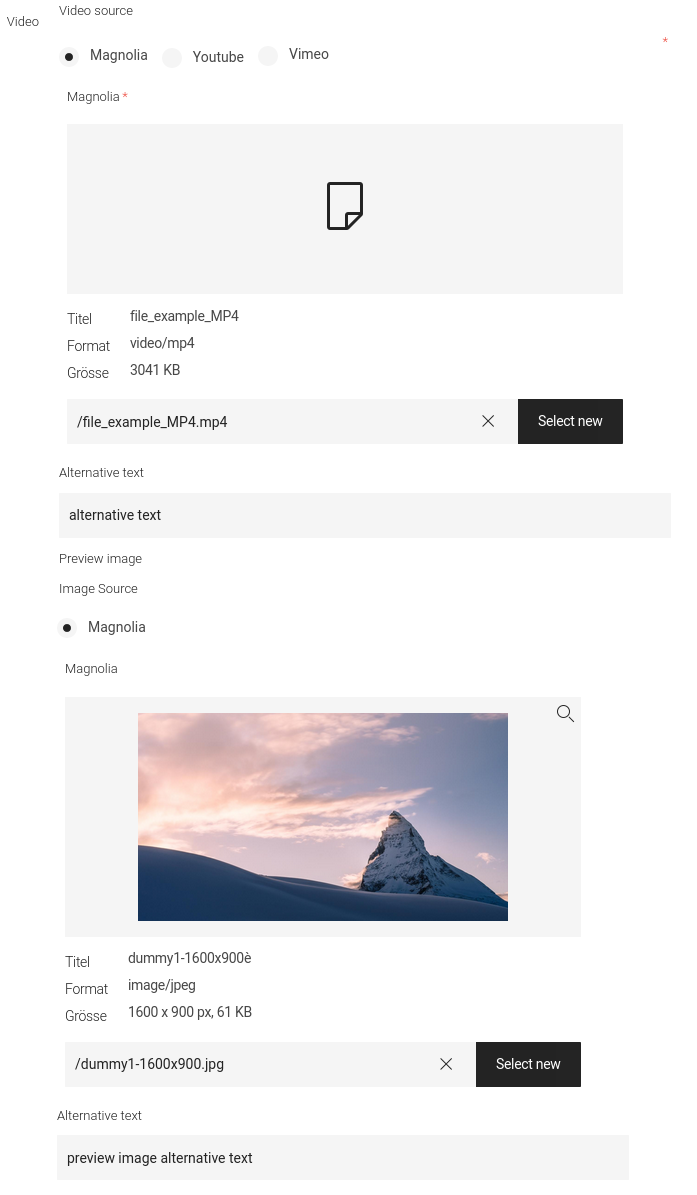
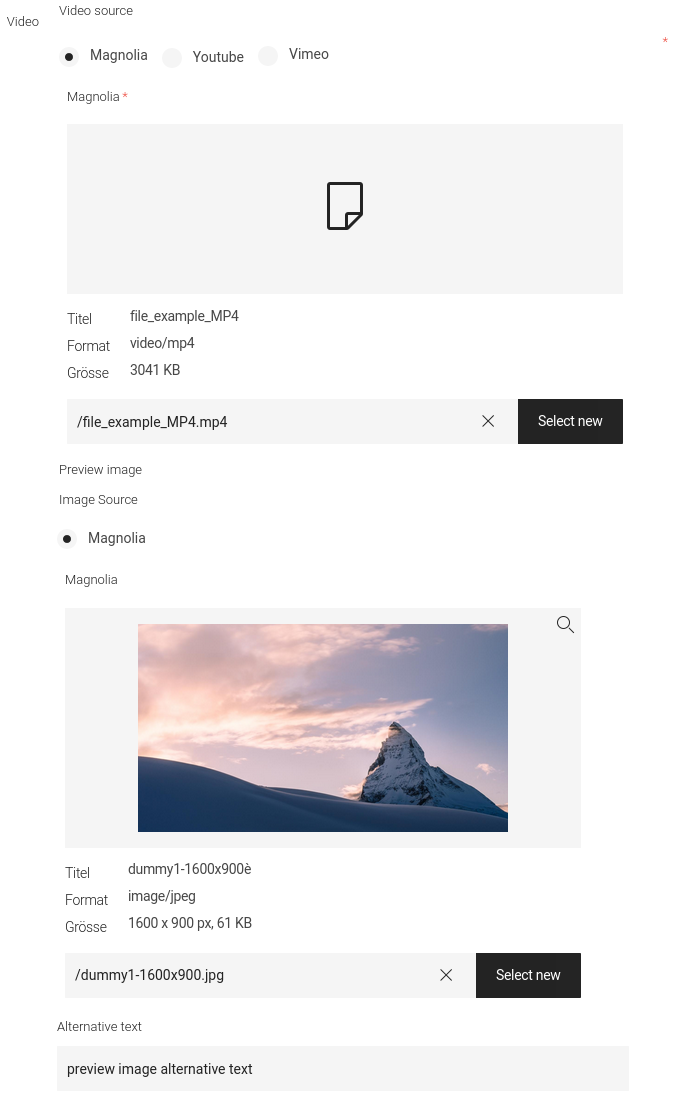
Remove alt text from videoSet

diff --git a/custom-definitions/src/main/java/com/merkle/oss/magnolia/definition/custom/videoset/model/VideoModel.java b/custom-definitions/src/main/java/com/merkle/oss/magnolia/definition/custom/videoset/model/VideoModel.java
@@ -18,19 +18,15 @@ public class VideoModel {
 	private final String src;
 	private final VideoType videoType;
 	@Nullable
-	private final String altText;
-	@Nullable
 	private final ImageReferenceModel previewImage;
 
 	public VideoModel(
 			final String src,
 			final VideoType videoType,
-			@Nullable final String altText,
 			@Nullable final ImageReferenceModel previewImage
 	) {
 		this.src = src;
 		this.videoType = videoType;
-		this.altText = altText;
 		this.previewImage = previewImage;
 	}
 
@@ -42,9 +38,6 @@ public class VideoModel {
 		return videoType;
 	}
 
-	public Optional<String> getAltText() {
-		return Optional.ofNullable(altText);
-	}
 
 	public Optional<ImageReferenceModel> getPreviewImage() {
 		return Optional.ofNullable(previewImage);
@@ -54,13 +47,13 @@ public class VideoModel {
 	public boolean equals(Object o) {
 		if (this == o) return true;
 		if (o == null || getClass() != o.getClass()) return false;
-		VideoModel video = (VideoModel) o;
-		return Objects.equals(src, video.src) && Objects.equals(videoType, video.videoType) && Objects.equals(altText, video.altText) && Objects.equals(previewImage, video.previewImage);
+		VideoModel that = (VideoModel) o;
+		return Objects.equals(src, that.src) && Objects.equals(videoType, that.videoType) && Objects.equals(previewImage, that.previewImage);
 	}
 
 	@Override
 	public int hashCode() {
-		return Objects.hash(src, videoType, altText, previewImage);
+		return Objects.hash(src, videoType, previewImage);
 	}
 
 	@Override
@@ -68,7 +61,6 @@ public class VideoModel {
 		return "Video{" +
 				"src='" + src + '\'' +
 				", videoType=" + videoType +
-				", altText='" + altText + '\'' +
 				", previewImage=" + previewImage +
 				'}';
 	}
@@ -104,7 +96,6 @@ public class VideoModel {
 					new VideoModel(
 							videoSource.src,
 							videoReference.getVideoType(),
-							videoReference.getAltText().orElse(videoSource.altText),
 							videoReference.getPreviewImage().orElse(null)
 					)
 			);
@@ -125,12 +116,9 @@ public class VideoModel {
 
 	public static class VideoSource {
 		private final String src;
-		@Nullable
-		private final String altText;
 
-		public VideoSource(final String src, @Nullable final String altText) {
+		public VideoSource(final String src) {
 			this.src = src;
-			this.altText = altText;
 		}
 	}
 }

diff --git a/custom-definitions/src/main/java/com/merkle/oss/magnolia/definition/custom/videoset/model/VideoReferenceModel.java b/custom-definitions/src/main/java/com/merkle/oss/magnolia/definition/custom/videoset/model/VideoReferenceModel.java
@@ -18,19 +18,15 @@ public class VideoReferenceModel {
 	private final String assetId;
 	private final VideoType videoType;
 	@Nullable
-	private final String altText;
-	@Nullable
 	private final ImageReferenceModel previewImage;
 
 	public VideoReferenceModel(
 			final String assetId,
 			final VideoType videoType,
-			@Nullable final String altText,
 			@Nullable final ImageReferenceModel previewImage
 	) {
 		this.assetId = assetId;
 		this.videoType = videoType;
-		this.altText = altText;
 		this.previewImage = previewImage;
 	}
 
@@ -42,10 +38,6 @@ public class VideoReferenceModel {
 		return videoType;
 	}
 
-	public Optional<String> getAltText() {
-		return Optional.ofNullable(altText);
-	}
-
 	public Optional<ImageReferenceModel> getPreviewImage() {
 		return Optional.ofNullable(previewImage);
 	}
@@ -55,12 +47,12 @@ public class VideoReferenceModel {
 		if (this == o) return true;
 		if (o == null || getClass() != o.getClass()) return false;
 		VideoReferenceModel that = (VideoReferenceModel) o;
-		return Objects.equals(assetId, that.assetId) && Objects.equals(videoType, that.videoType) && Objects.equals(altText, that.altText) && Objects.equals(previewImage, that.previewImage);
+		return Objects.equals(assetId, that.assetId) && Objects.equals(videoType, that.videoType) && Objects.equals(previewImage, that.previewImage);
 	}
 
 	@Override
 	public int hashCode() {
-		return Objects.hash(assetId, videoType, altText, previewImage);
+		return Objects.hash(assetId, videoType, previewImage);
 	}
 
 	@Override
@@ -68,7 +60,6 @@ public class VideoReferenceModel {
 		return "VideoReference{" +
 				"assetId='" + assetId + '\'' +
 				", videoType=" + videoType +
-				", altText='" + altText + '\'' +
 				", previewImage=" + previewImage +
 				'}';
 	}
@@ -99,7 +90,6 @@ public class VideoReferenceModel {
 							new VideoReferenceModel(
 									assetId,
 									videoType,
-									video.getProperty(propertyName + VideoSetDefinitionBuilder.ALT_TEXT_SUFFIX, dialogLocale, ValueConverter::getString).orElse(null),
 									imageReferenceFactory
 											.create(propertyName + VideoSetDefinitionBuilder.PREVIEW_IMAGE_SUFFIX, dialogLocale, video)
 											.orElse(null)

diff --git a/custom-definitions/src/main/java/com/merkle/oss/magnolia/definition/custom/videoset/VideoSetDefinition.java b/custom-definitions/src/main/java/com/merkle/oss/magnolia/definition/custom/videoset/VideoSetDefinition.java
@@ -18,7 +18,6 @@ import java.util.List;
 
 public class VideoSetDefinition extends ConfiguredComplexPropertyDefinition<Node> implements FormDefinition<Node> {
 	private final SwitchableDefinition video;
-	private final TextFieldDefinition altText;
 	private final ImageSetDefinition previewImage;
 	private boolean readOnly;
 	private boolean required;
@@ -27,11 +26,9 @@ public class VideoSetDefinition extends ConfiguredComplexPropertyDefinition<Node
 
 	public VideoSetDefinition(
 			final SwitchableDefinition video,
-			final TextFieldDefinition altText,
 			final ImageSetDefinition previewImage
 	) {
 		this.video = video;
-		this.altText = altText;
 		this.previewImage = previewImage;
 		setImplementationClass((Class) FormView.class);
 		setItemProvider(new CurrentItemProviderDefinition<>());
@@ -41,17 +38,13 @@ public class VideoSetDefinition extends ConfiguredComplexPropertyDefinition<Node
 		return video;
 	}
 
-	public TextFieldDefinition getAltTextField() {
-		return altText;
-	}
-
 	public ImageSetDefinition getPreviewImage() {
 		return previewImage;
 	}
 
 	@Override
 	public List<EditorPropertyDefinition> getProperties() {
-		return List.of(video, altText, previewImage);
+		return List.of(video, previewImage);
 	}
 
 	@Override
@@ -63,14 +56,12 @@ public class VideoSetDefinition extends ConfiguredComplexPropertyDefinition<Node
 	public void setI18n(final boolean i18n) {
 		super.setI18n(i18n);
 		video.setI18n(i18n);
-		altText.setI18n(i18n);
 		previewImage.setI18n(i18n);
 	}
 
 	public void setReadOnly(final boolean readOnly) {
 		this.readOnly = readOnly;
 		video.setReadOnly(readOnly);
-		altText.setReadOnly(readOnly);
 		previewImage.setReadOnly(readOnly);
 	}
 

diff --git a/custom-definitions/src/main/java/com/merkle/oss/magnolia/definition/custom/videoset/AbstractVideoSetDefinitionBuilder.java b/custom-definitions/src/main/java/com/merkle/oss/magnolia/definition/custom/videoset/AbstractVideoSetDefinitionBuilder.java
@@ -19,7 +19,6 @@ import java.util.stream.Stream;
 
 public abstract class AbstractVideoSetDefinitionBuilder<B extends AbstractVideoSetDefinitionBuilder<B>> extends AbstractConfiguredComplexPropertyDefinitionBuilder<Node, VideoSetDefinition, B> {
 	public static final String SELECTION_SUFFIX = "_selection";
-	public static final String ALT_TEXT_SUFFIX = "_alt";
 	public static final String PREVIEW_IMAGE_SUFFIX = "_previewImage";
 	private final AbstractImageSetDefinitionBuilder<?> imageSetDefinitionBuilder;
 	private final String labelPrefix;
@@ -110,9 +109,6 @@ public abstract class AbstractVideoSetDefinitionBuilder<B extends AbstractVideoS
 						.fieldOptions(Stream.ofNullable(videoOptions).flatMap(Collection::stream).map(this::createFieldOption).collect(Collectors.toList()))
 						.label(labelPrefix + "video.label")
 						.build(name),
-				new TextFieldDefinitionBuilder()
-						.label(labelPrefix + "altText.label")
-						.build(name + ALT_TEXT_SUFFIX),
 				imageSetDefinitionBuilder
 						.label(labelPrefix + "previewImage.label")
 						.build(name + PREVIEW_IMAGE_SUFFIX)

diff --git a/custom-definitions/src/main/java/com/merkle/oss/magnolia/definition/custom/videoset/model/YoutubeVideoSourceTransformer.java b/custom-definitions/src/main/java/com/merkle/oss/magnolia/definition/custom/videoset/model/YoutubeVideoSourceTransformer.java
@@ -20,7 +20,7 @@ public class YoutubeVideoSourceTransformer implements VideoSourceTransformer {
 	@Override
 	public Optional<VideoSource> transform(final Locale locale, final String src) {
 		if (StringUtils.startsWith(src, YoutubeTextValueConverter.PREFIX)) {
-			return Optional.of(new VideoSource(StringUtils.removeStart(src, YoutubeTextValueConverter.PREFIX), null));
+			return Optional.of(new VideoSource(StringUtils.removeStart(src, YoutubeTextValueConverter.PREFIX)));
 		}
 		return Optional.empty();
 	}

diff --git a/custom-definitions/src/main/java/com/merkle/oss/magnolia/definition/custom/videoset/model/VimeoVideoSourceTransformer.java b/custom-definitions/src/main/java/com/merkle/oss/magnolia/definition/custom/videoset/model/VimeoVideoSourceTransformer.java
@@ -20,7 +20,7 @@ public class VimeoVideoSourceTransformer implements VideoSourceTransformer {
 	@Override
 	public Optional<VideoSource> transform(final Locale locale, final String src) {
 		if (StringUtils.startsWith(src, VimeoTextValueConverter.PREFIX)) {
-			return Optional.of(new VideoSource(StringUtils.removeStart(src, VimeoTextValueConverter.PREFIX), null));
+			return Optional.of(new VideoSource(StringUtils.removeStart(src, VimeoTextValueConverter.PREFIX)));
 		}
 		return Optional.empty();
 	}

diff --git a/custom-definitions/src/main/java/com/merkle/oss/magnolia/definition/custom/videoset/model/DamVideoSourceTransformer.java b/custom-definitions/src/main/java/com/merkle/oss/magnolia/definition/custom/videoset/model/DamVideoSourceTransformer.java
@@ -26,7 +26,7 @@ public class DamVideoSourceTransformer implements VideoSourceTransformer {
 	@Override
 	public Optional<VideoSource> transform(final Locale locale, final String src) {
 		return Optional.ofNullable(damTemplatingFunctions.getAsset(src)).map(asset ->
-			new VideoSource(asset.getLink(), asset.getCaption())
+			new VideoSource(asset.getLink())
 		);
 	}
 }

diff --git a/custom-definitions/src/main/java/com/merkle/oss/magnolia/definition/custom/videoset/README.md b/custom-definitions/src/main/java/com/merkle/oss/magnolia/definition/custom/videoset/README.md
@@ -1,5 +1,5 @@
 # VideoSet
-A videoSet groups the fields video-source, alternative-text and previewImage [imageSet](../imageset/README.md) for different video types, from which the author can choose from.
+A videoSet groups the fields video-source and previewImage [imageSet](../imageset/README.md) for different video types, from which the author can choose from.
 
 ## Usage
 ### Dialog
@@ -154,8 +154,7 @@ Vimeo video, specified by ID.
       @Override
       public Optional<VideoModel.VideoSource> transform(final Locale locale, final String assetId) {
          return Optional.of(new VideoModel.VideoSource(
-                 "https://aprimo.com/asset/"+assetId,
-                 null
+                 "https://aprimo.com/asset/"+assetId
          ));
       }
    
